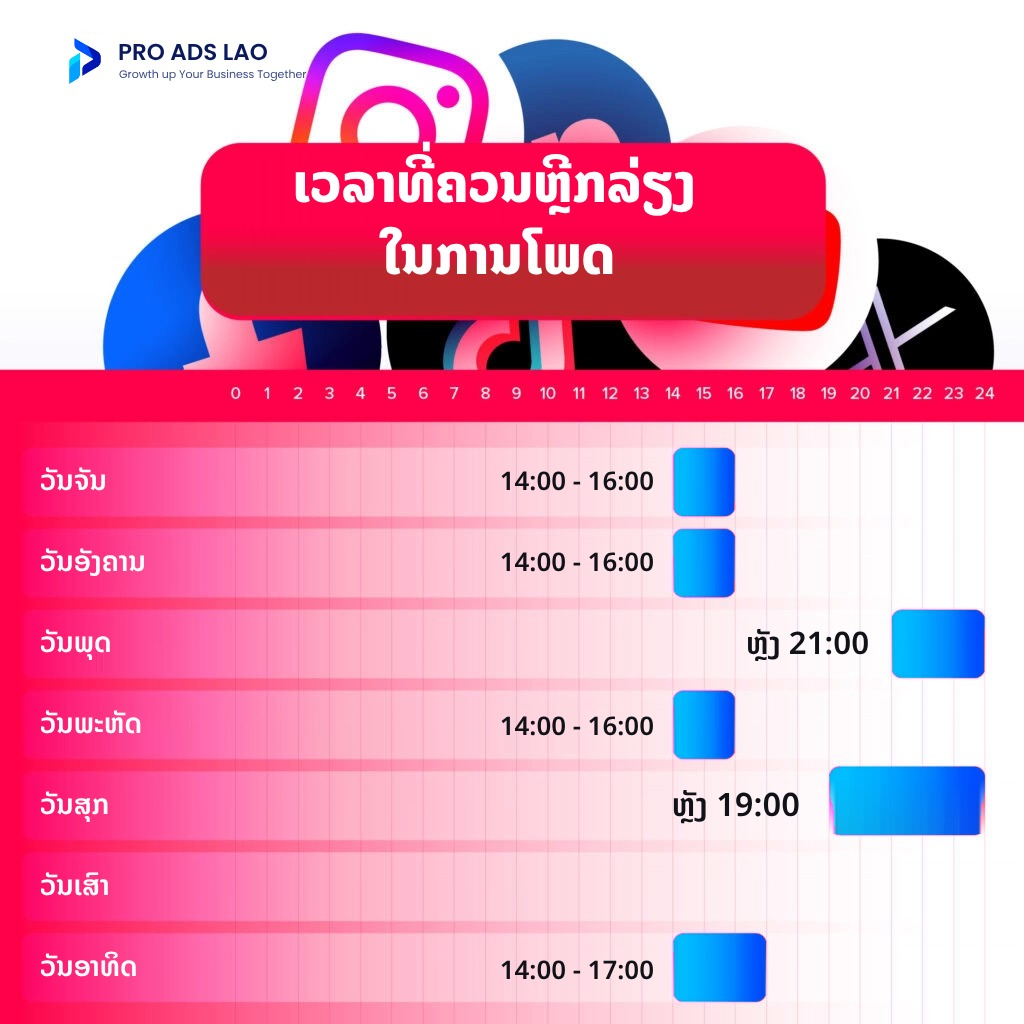
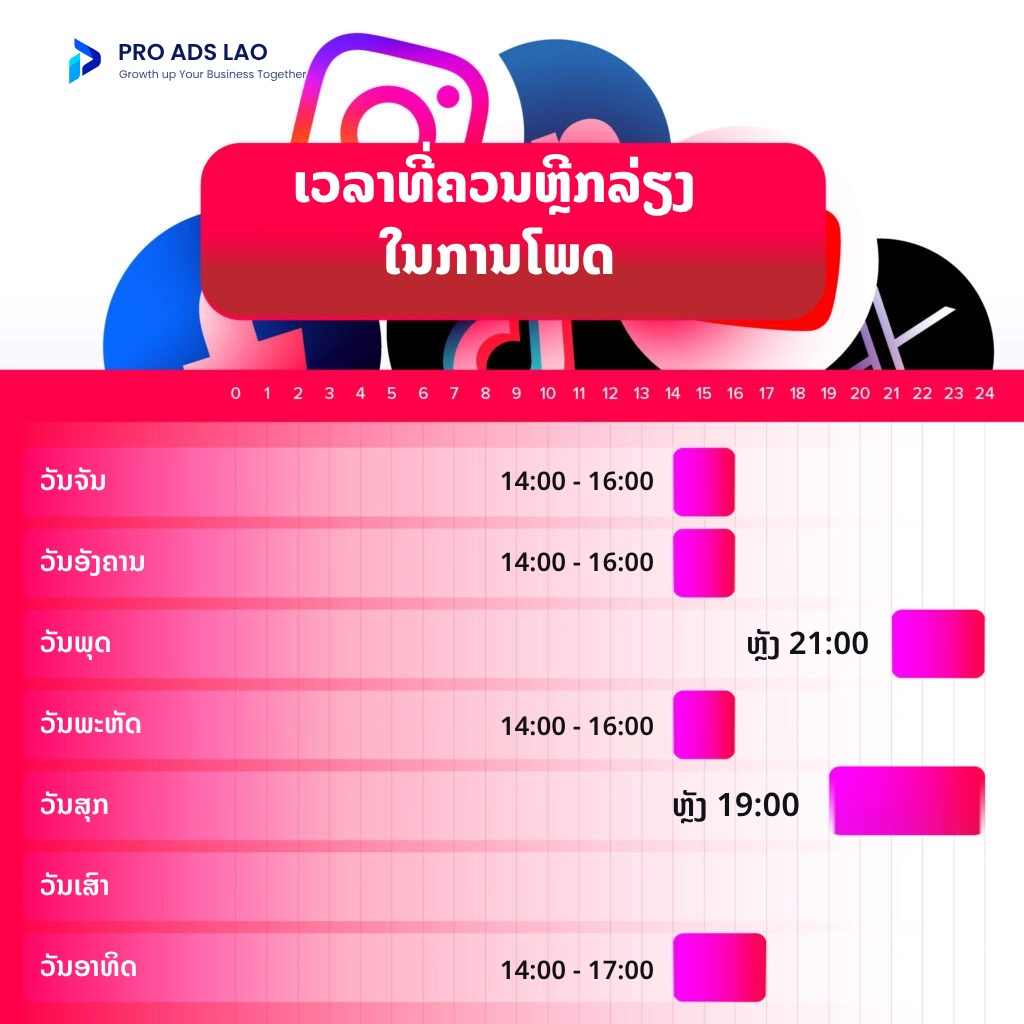
Recolor posting-time bars to each platform's colors
Claude-Session: https://claude.ai/code/session_019FLCxxTP1ugRBB5ozkTjKe

diff --git a/index.html b/index.html
@@ -609,7 +609,7 @@ footer .wrap{display:flex;flex-wrap:wrap;justify-content:space-between;gap:12px;
     <button class="arrow" type="button" id="news-prev" aria-label="ກ່ອນໜ້າ"><svg viewBox="0 0 30 56" fill="none" stroke="currentColor" stroke-width="2.5"><path d="M27 2 3 28l24 26"/></svg></button>
     <div class="track news-track" id="news-track" tabindex="0">
     <article class="news-card news-wide" data-lb-group>
-      <a class="news-img" href="news/post-time-1.jpg?v=3" data-lb><img src="news/post-time-1.jpg?v=3" alt="ເວລາໂພດທີ່ດີທີ່ສຸດ ປີ 2026" width="1024" height="1024" loading="lazy"><span class="pbadge">8 ຮູບ</span></a><a href="news/post-time-2.jpg?v=2" data-lb hidden aria-label="ເວລາໂພດທີ່ດີທີ່ສຸດ ປີ 2026"></a><a href="news/post-time-3.jpg?v=2" data-lb hidden aria-label="ເວລາໂພດທີ່ດີທີ່ສຸດ ປີ 2026"></a><a href="news/post-time-4.jpg?v=2" data-lb hidden aria-label="ເວລາໂພດທີ່ດີທີ່ສຸດ ປີ 2026"></a><a href="news/post-time-5.jpg?v=2" data-lb hidden aria-label="ເວລາໂພດທີ່ດີທີ່ສຸດ ປີ 2026"></a><a href="news/post-time-6.jpg?v=2" data-lb hidden aria-label="ເວລາໂພດທີ່ດີທີ່ສຸດ ປີ 2026"></a><a href="news/post-time-7.jpg?v=2" data-lb hidden aria-label="ເວລາໂພດທີ່ດີທີ່ສຸດ ປີ 2026"></a><a href="news/post-time-8.jpg?v=2" data-lb hidden aria-label="ເວລາໂພດທີ່ດີທີ່ສຸດ ປີ 2026"></a>
+      <a class="news-img" href="news/post-time-1.jpg?v=3" data-lb><img src="news/post-time-1.jpg?v=3" alt="ເວລາໂພດທີ່ດີທີ່ສຸດ ປີ 2026" width="1024" height="1024" loading="lazy"><span class="pbadge">8 ຮູບ</span></a><a href="news/post-time-2.jpg?v=2" data-lb hidden aria-label="ເວລາໂພດທີ່ດີທີ່ສຸດ ປີ 2026"></a><a href="news/post-time-3.jpg?v=4" data-lb hidden aria-label="ເວລາໂພດທີ່ດີທີ່ສຸດ ປີ 2026"></a><a href="news/post-time-4.jpg?v=4" data-lb hidden aria-label="ເວລາໂພດທີ່ດີທີ່ສຸດ ປີ 2026"></a><a href="news/post-time-5.jpg?v=4" data-lb hidden aria-label="ເວລາໂພດທີ່ດີທີ່ສຸດ ປີ 2026"></a><a href="news/post-time-6.jpg?v=4" data-lb hidden aria-label="ເວລາໂພດທີ່ດີທີ່ສຸດ ປີ 2026"></a><a href="news/post-time-7.jpg?v=2" data-lb hidden aria-label="ເວລາໂພດທີ່ດີທີ່ສຸດ ປີ 2026"></a><a href="news/post-time-8.jpg?v=4" data-lb hidden aria-label="ເວລາໂພດທີ່ດີທີ່ສຸດ ປີ 2026"></a>
       <div class="news-body">
         <time datetime="2026-11-18">18 ພະຈິກ 2026</time>
         <h3>ໂພດຕອນໃດຄົນເຫັນຫຼາຍທີ່ສຸດ? ເວລາໂພດທີ່ດີທີ່ສຸດປີ 2026 ຂອງ Facebook, IG, TikTok, YouTube, X ແລະ LinkedIn</h3>
